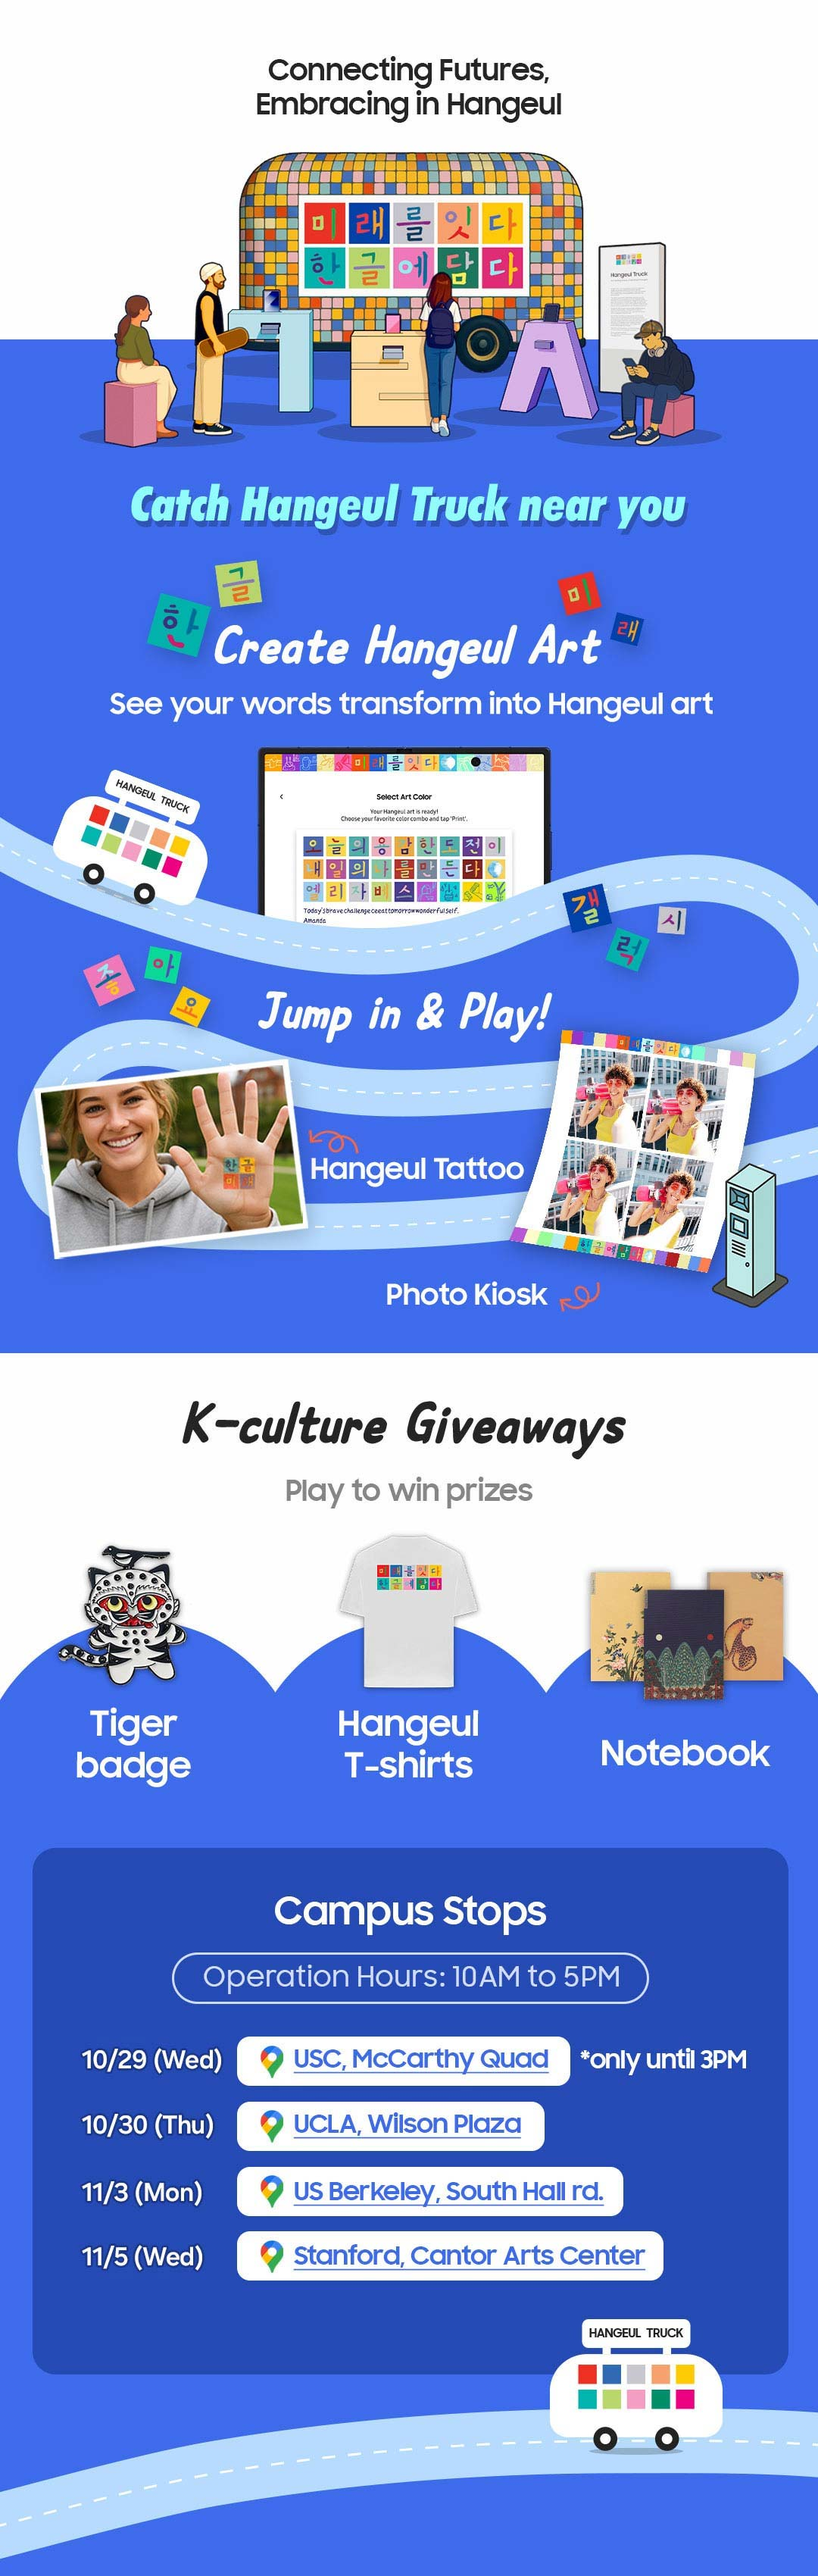
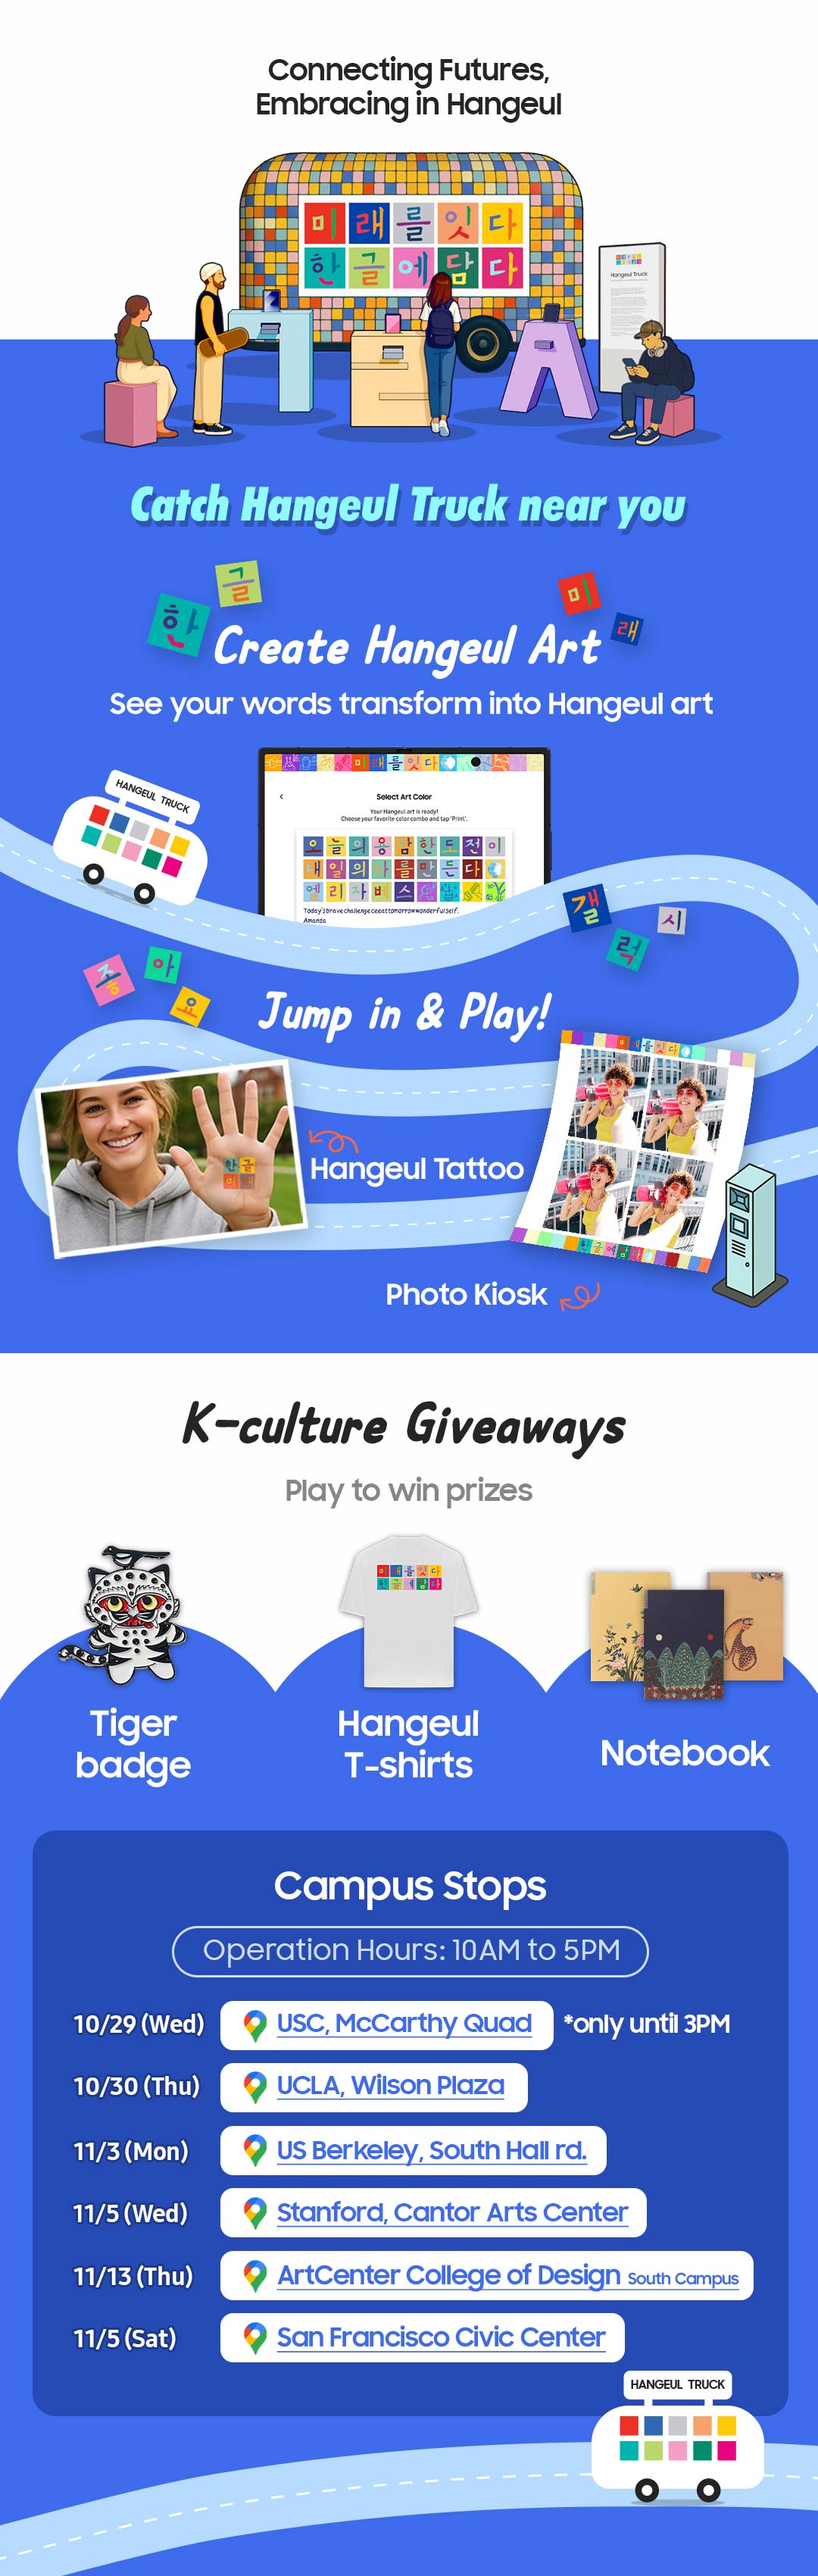
update

Changed region(s): [[0.0, 0.6859, 1.0, 1.0]]

diff --git a/index.html b/index.html
@@ -48,30 +48,44 @@
       }
 
       .clickable-link.usc {
-        top: 78.7%;
-        left: 37.8%;
+        top: 77.5%;
+        left: 25%;
         width: 45%;
         height: 2.2%;
       }
 
       .clickable-link.ucla {
-        top: 81.2%;
-        left: 37.6%;
-        width: 45%;
+        top: 79.95%;
+        left: 25%;
+        width: 42%;
         height: 2.2%;
       }
 
       .clickable-link.us-berkeley {
-        top: 83.8%;
-        left: 37.7%;
-        width: 45%;
+        top: 82.4%;
+        left: 25%;
+        width: 51%;
         height: 2.2%;
       }
 
       .clickable-link.stanford {
-        top: 86.24%;
-        left: 38.1%;
-        width: 45%;
+        top: 84.8%;
+        left: 25%;
+        width: 56.5%;
+        height: 2.2%;
+      }
+
+      .clickable-link.art-center {
+        top: 87.25%;
+        left: 25%;
+        width: 69%;
+        height: 2.2%;
+      }
+
+      .clickable-link.sanfrancisco-civic {
+        top: 89.65%;
+        left: 25%;
+        width: 54.5%;
         height: 2.2%;
       }
     </style>
@@ -103,6 +117,18 @@
         target="_blank"
         class="clickable-link stanford"
         aria-label="Stanford, South Lawn"
+      ></a>
+      <a
+        href="https://maps.app.goo.gl/PMY7cM3JAn3R1tRf7"
+        target="_blank"
+        class="clickable-link art-center"
+        aria-label="ArtCenter College Of Design"
+      ></a>
+      <a
+        href="https://maps.app.goo.gl/QswLtM34Ug5Gp6736?g_st=ic"
+        target="_blank"
+        class="clickable-link sanfrancisco-civic"
+        aria-label="San Francisco Civic Center"
       ></a>
     </div>
   </body>
